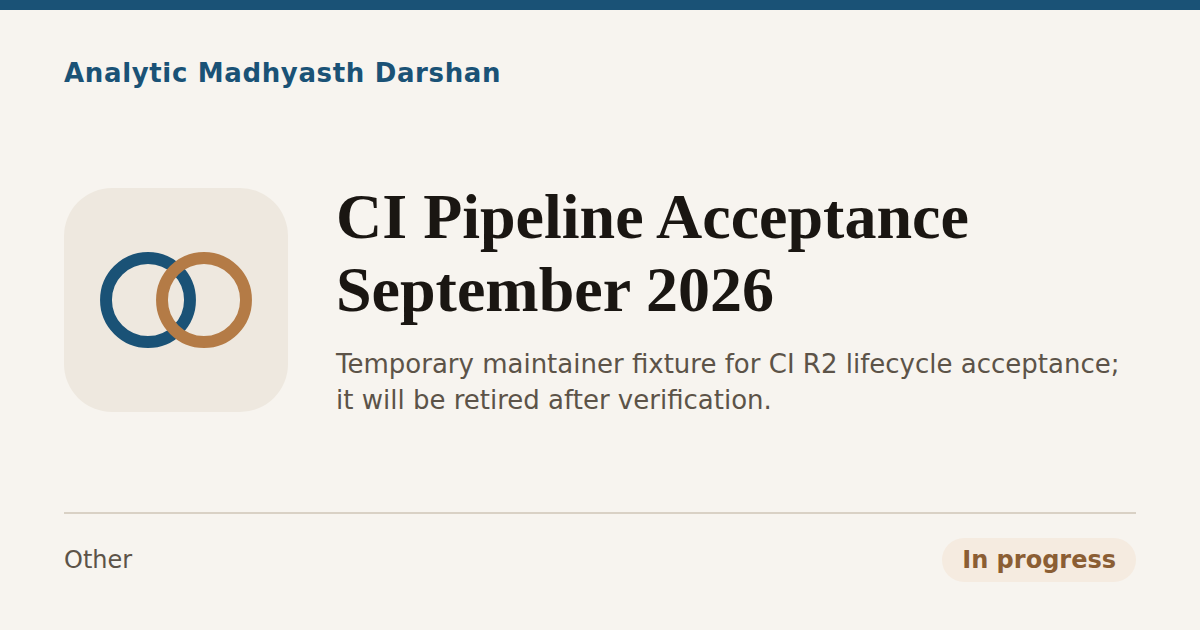
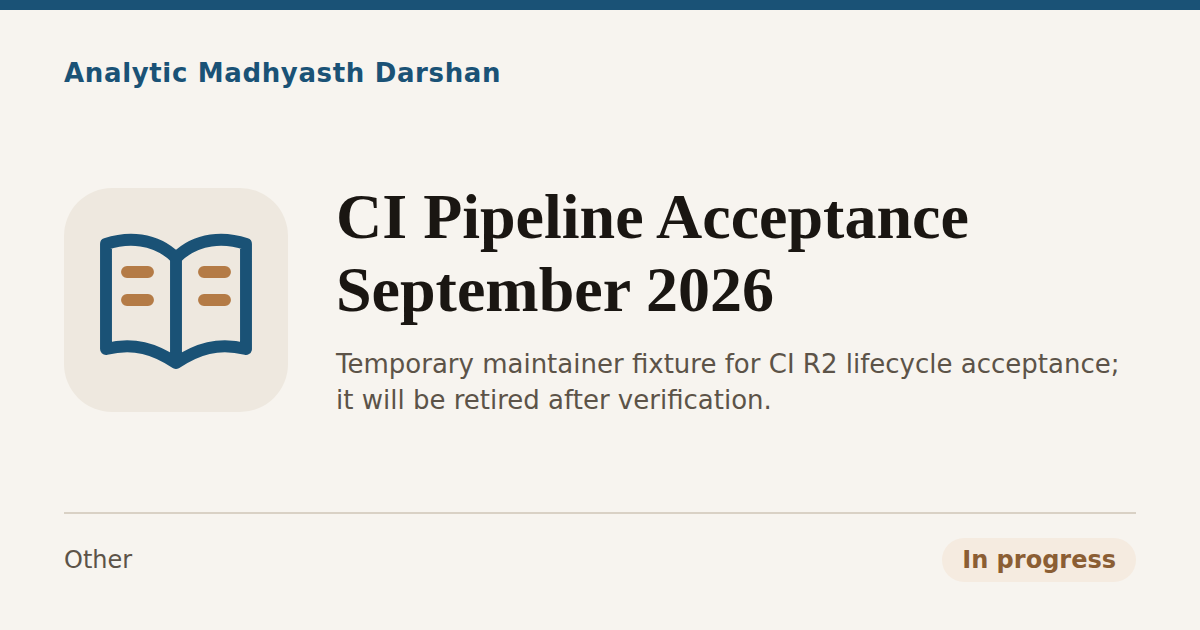
ci: prepare proposal workspace [skip ci]

Changed region(s): [[0.0617, 0.3619, 0.2158, 0.6032]]

diff --git a/Studies/index.html b/Studies/index.html
@@ -557,7 +557,7 @@
   const CATALOG_BUILD_ID = "1e9998101fd3";
   const PRESENTATIONS = {"Axiology-Value-Theory":[{"label":"Slides","shortLabel":"Slides","href":"Axiology-Value-Theory/Axiology-Value-Theory-Madhyasth-Darshan.pdf"}],"A-State-Dynamic-Model-Of-Coexistence":[{"label":"Slides","shortLabel":"Slides","href":"A-State-Dynamic-Model-Of-Coexistence/A-State-Dynamic-Model-Of-Coexistence-Madhyasth-Darshan.pdf"}],"How-Undivided-Society-Is-Established":[{"label":"Slides","shortLabel":"Slides","href":"How-Undivided-Society-Is-Established/How-Undivided-Society-Is-Established-presentation.pdf"}],"The-Epistemology-of-Coexistence":[{"label":"Study slides","shortLabel":"Main","href":"The-Epistemology-of-Coexistence/The-Epistemology-of-Coexistence-Madhyasth-Darshan.pdf"},{"label":"Comparison slides","shortLabel":"Compare","href":"The-Epistemology-of-Coexistence/Epistemology-in-Comparison-MD-Advaita-Philosophy-Science.pdf"}],"The-Ontology-of-Coexistence":[{"label":"Study slides","shortLabel":"Main","href":"The-Ontology-of-Coexistence/The-Ontology-of-Existence-Madhyasth-Darshan.pdf"},{"label":"Comparison slides","shortLabel":"Compare","href":"The-Ontology-of-Coexistence/Coexistence-in-Comparison-MD-vs-Advaita-Philosophy-Science.pdf"}],"Why-Humans-Are-Not-Just-Material":[{"label":"Slides","shortLabel":"Slides","href":"Why-Humans-Are-Not-Just-Material/Why-Humans-Are-Not-Just-Material-presentation.pdf"}]};
   const DISCUSS_ASSET_VERSION = "9";
-  const STUDY_VISUALS = {"The-Ontology-of-Coexistence":"coexistence","Nature-Of-Time":"time","Why-Humans-Are-Not-Just-Material":"jeevan","Philosophy-Of-Mind-And-Jeevan":"jeevan","Chitta-Brain-And-Memory":"resolution","The-Epistemology-of-Coexistence":"resolution","Methodology-And-Hermeneutics":"wisdom","Axiology-Value-Theory":"justice","Ethics-And-Morals-In-Human-Beings":"justice","Family-Relationships-And-Values":"family","Education-And-Sanskar":"learning","Aesthetics":"art","Human-Behavior-And-Society":"relationships","How-To-Form-Self-Sustaining-Organizations":"family","Governance-Justice-And-Undivided-Society":"justice","Prosperity-Economics-And-Right-Use":"prosperity","Nature-Ecology-And-Right-Use":"ecology","Spiritual-Practice-And-Realization":"jeevan","Science-Technology-And-Human-Purpose":"science","How-Undivided-Society-Is-Established":"akhand-samaj","Death-Continuity-And-Rebirth":"continuity","Language-Meaning-And-Definition":"language","Work-Action-And-Karma":"work","Free-Will-Choice-And-Agency":"choice","Health-Body-And-Restraint":"health","God-Divinity-And-The-Sacred":"coexistence","A-State-Dynamic-Model-Of-Coexistence":"model"};
+  const STUDY_VISUALS = {"The-Ontology-of-Coexistence":"coexistence","Nature-Of-Time":"time","Why-Humans-Are-Not-Just-Material":"jeevan","Philosophy-Of-Mind-And-Jeevan":"jeevan","Chitta-Brain-And-Memory":"resolution","The-Epistemology-of-Coexistence":"resolution","Methodology-And-Hermeneutics":"wisdom","Axiology-Value-Theory":"justice","Ethics-And-Morals-In-Human-Beings":"justice","Family-Relationships-And-Values":"family","Education-And-Sanskar":"learning","Aesthetics":"art","Human-Behavior-And-Society":"relationships","How-To-Form-Self-Sustaining-Organizations":"family","Governance-Justice-And-Undivided-Society":"justice","Prosperity-Economics-And-Right-Use":"prosperity","Nature-Ecology-And-Right-Use":"ecology","Spiritual-Practice-And-Realization":"jeevan","Science-Technology-And-Human-Purpose":"science","How-Undivided-Society-Is-Established":"akhand-samaj","Death-Continuity-And-Rebirth":"continuity","Language-Meaning-And-Definition":"language","Work-Action-And-Karma":"work","Free-Will-Choice-And-Agency":"choice","Health-Body-And-Restraint":"health","God-Divinity-And-The-Sacred":"coexistence","A-State-Dynamic-Model-Of-Coexistence":"model","CI-Pipeline-Acceptance-September-2026":"learning"};
   const THEME_ICON_HTML = {"akhand-samaj":"<svg xmlns=\"http://www.w3.org/2000/svg\" viewBox=\"0 0 240 240\" class=\"amd-mark\" aria-hidden=\"true\" focusable=\"false\"><path class=\"goal\" d=\"M120 36H163Q204 36 204 77V120\" transform=\"rotate(0 120 120)\" fill=\"none\" stroke=\"var(--amd-icon,#1A5276)\" stroke-width=\"20\"/><path class=\"goal\" d=\"M120 36H163Q204 36 204 77V120\" transform=\"rotate(90 120 120)\" fill=\"none\" stroke=\"var(--amd-accent,#B47B46)\" stroke-width=\"20\"/><path class=\"goal\" d=\"M120 36H163Q204 36 204 77V120\" transform=\"rotate(180 120 120)\" fill=\"none\" stroke=\"var(--amd-icon,#1A5276)\" stroke-width=\"20\"/><path class=\"goal\" d=\"M120 36H163Q204 36 204 77V120\" transform=\"rotate(270 120 120)\" fill=\"none\" stroke=\"var(--amd-accent,#B47B46)\" stroke-width=\"20\"/><circle cx=\"120\" cy=\"120\" r=\"22\" fill=\"var(--amd-accent,#B47B46)\" stroke=\"none\"/><\/svg>","art":"<svg xmlns=\"http://www.w3.org/2000/svg\" viewBox=\"0 0 24 24\" class=\"amd-topic-icon\" aria-hidden=\"true\" focusable=\"false\"><g fill=\"none\" stroke=\"var(--amd-icon,#1A5276)\" stroke-width=\"1.7\" stroke-linecap=\"round\" stroke-linejoin=\"round\"><path d=\"M14 3 3 14l-1 8 8-1L21 10ZM14 3l7 7M3 14l7 7\"/><g stroke=\"var(--amd-accent,#B47B46)\"><path d=\"m5 18 2 2\"/><\/g><\/g><\/svg>","audio":"<svg xmlns=\"http://www.w3.org/2000/svg\" viewBox=\"0 0 24 24\" class=\"amd-topic-icon\" aria-hidden=\"true\" focusable=\"false\"><g fill=\"none\" stroke=\"var(--amd-icon,#1A5276)\" stroke-width=\"1.7\" stroke-linecap=\"round\" stroke-linejoin=\"round\"><path d=\"M3 9h4l5-5v16l-5-5H3Z M16 8c3 2 3 6 0 8M19 5c5 4 5 10 0 14\"/><\/g><\/svg>","choice":"<svg xmlns=\"http://www.w3.org/2000/svg\" viewBox=\"0 0 24 24\" class=\"amd-topic-icon\" aria-hidden=\"true\" focusable=\"false\"><g fill=\"none\" stroke=\"var(--amd-icon,#1A5276)\" stroke-width=\"1.7\" stroke-linecap=\"round\" stroke-linejoin=\"round\"><path d=\"M12 22V12M12 12 5 5M12 12l7-7M2 5h6M5 2v6M16 5h6M19 2v6\"/><\/g><\/svg>","close":"<svg xmlns=\"http://www.w3.org/2000/svg\" viewBox=\"0 0 24 24\" class=\"amd-topic-icon\" aria-hidden=\"true\" focusable=\"false\"><g fill=\"none\" stroke=\"var(--amd-icon,#1A5276)\" stroke-width=\"1.7\" stroke-linecap=\"round\" stroke-linejoin=\"round\"><path d=\"m5 5 14 14M19 5 5 19\"/><\/g><\/svg>","coexistence":"<svg xmlns=\"http://www.w3.org/2000/svg\" viewBox=\"0 0 24 24\" class=\"amd-topic-icon\" aria-hidden=\"true\" focusable=\"false\"><g fill=\"none\" stroke=\"var(--amd-icon,#1A5276)\" stroke-width=\"1.7\" stroke-linecap=\"round\" stroke-linejoin=\"round\"><circle cx=\"8\" cy=\"12\" r=\"6\" /><g stroke=\"var(--amd-accent,#B47B46)\"><circle cx=\"16\" cy=\"12\" r=\"6\" /><\/g><\/g><\/svg>","continuity":"<svg xmlns=\"http://www.w3.org/2000/svg\" viewBox=\"0 0 24 24\" class=\"amd-topic-icon\" aria-hidden=\"true\" focusable=\"false\"><g fill=\"none\" stroke=\"var(--amd-icon,#1A5276)\" stroke-width=\"1.7\" stroke-linecap=\"round\" stroke-linejoin=\"round\"><path d=\"M4 8a9 9 0 0 1 15-2l2 2M21 3v5h-5M20 16a9 9 0 0 1-15 2l-2-2M3 21v-5h5\"/><\/g><\/svg>","discussion":"<svg xmlns=\"http://www.w3.org/2000/svg\" viewBox=\"0 0 24 24\" class=\"amd-topic-icon\" aria-hidden=\"true\" focusable=\"false\"><g fill=\"none\" stroke=\"var(--amd-icon,#1A5276)\" stroke-width=\"1.7\" stroke-linecap=\"round\" stroke-linejoin=\"round\"><path d=\"M2 3h16v12H7l-5 4ZM18 7h4v15l-5-4h-6v-3\"/><\/g><\/svg>","download":"<svg xmlns=\"http://www.w3.org/2000/svg\" viewBox=\"0 0 24 24\" class=\"amd-topic-icon\" aria-hidden=\"true\" focusable=\"false\"><g fill=\"none\" stroke=\"var(--amd-icon,#1A5276)\" stroke-width=\"1.7\" stroke-linecap=\"round\" stroke-linejoin=\"round\"><path d=\"M12 2v13m-5-5 5 5 5-5M3 17v5h18v-5\"/><\/g><\/svg>","ecology":"<svg xmlns=\"http://www.w3.org/2000/svg\" viewBox=\"0 0 24 24\" class=\"amd-topic-icon\" aria-hidden=\"true\" focusable=\"false\"><g fill=\"none\" stroke=\"var(--amd-icon,#1A5276)\" stroke-width=\"1.7\" stroke-linecap=\"round\" stroke-linejoin=\"round\"><path d=\"M12 22V10M12 14C4 14 3 8 3 5c6 0 9 4 9 9Z\"/><g stroke=\"var(--amd-accent,#B47B46)\"><path d=\"M12 10c0-6 4-8 9-8 0 5-3 8-9 8Z\"/><\/g><\/g><\/svg>","external":"<svg xmlns=\"http://www.w3.org/2000/svg\" viewBox=\"0 0 24 24\" class=\"amd-topic-icon\" aria-hidden=\"true\" focusable=\"false\"><g fill=\"none\" stroke=\"var(--amd-icon,#1A5276)\" stroke-width=\"1.7\" stroke-linecap=\"round\" stroke-linejoin=\"round\"><path d=\"M14 3h7v7M21 3l-11 11M10 3H3v18h18v-7\"/><\/g><\/svg>","family":"<svg xmlns=\"http://www.w3.org/2000/svg\" viewBox=\"0 0 24 24\" class=\"amd-topic-icon\" aria-hidden=\"true\" focusable=\"false\"><g fill=\"none\" stroke=\"var(--amd-icon,#1A5276)\" stroke-width=\"1.7\" stroke-linecap=\"round\" stroke-linejoin=\"round\"><circle cx=\"12\" cy=\"5\" r=\"2.5\" /><circle cx=\"4\" cy=\"10\" r=\"2\" /><circle cx=\"20\" cy=\"10\" r=\"2\" /><path d=\"M7 15v-2c0-3 2-4 5-4s5 1 5 4v2M1 21v-4c0-2 1-3 3-3s3 1 3 3v4M17 21v-4c0-2 1-3 3-3s3 1 3 3v4\"/><g stroke=\"var(--amd-accent,#B47B46)\"><path d=\"M9 21v-4h6v4\"/><\/g><\/g><\/svg>","fearlessness":"<svg xmlns=\"http://www.w3.org/2000/svg\" viewBox=\"0 0 24 24\" class=\"amd-topic-icon\" aria-hidden=\"true\" focusable=\"false\"><g fill=\"none\" stroke=\"var(--amd-icon,#1A5276)\" stroke-width=\"1.7\" stroke-linecap=\"round\" stroke-linejoin=\"round\"><circle cx=\"6\" cy=\"6\" r=\"2.5\" /><circle cx=\"18\" cy=\"6\" r=\"2.5\" /><path d=\"M2 20v-5c0-3 2-4 4-4s4 1 4 4v5M14 20v-5c0-3 2-4 4-4s4 1 4 4v5\"/><g stroke=\"var(--amd-accent,#B47B46)\"><path d=\"M8 14c3 3 5 3 8 0\"/><\/g><\/g><\/svg>","health":"<svg xmlns=\"http://www.w3.org/2000/svg\" viewBox=\"0 0 24 24\" class=\"amd-topic-icon\" aria-hidden=\"true\" focusable=\"false\"><g fill=\"none\" stroke=\"var(--amd-icon,#1A5276)\" stroke-width=\"1.7\" stroke-linecap=\"round\" stroke-linejoin=\"round\"><path d=\"M12 21 3 12C-2 5 7-1 12 6c5-7 14-1 9 6Z\"/><g stroke=\"var(--amd-accent,#B47B46)\"><path d=\"M3 12h5l2-4 4 8 2-4h5\"/><\/g><\/g><\/svg>","jeevan":"<svg xmlns=\"http://www.w3.org/2000/svg\" viewBox=\"0 0 240 240\" class=\"amd-mark\" aria-hidden=\"true\" focusable=\"false\"><circle class=\"faculty\" cx=\"120\" cy=\"120\" r=\"34\" fill=\"none\" stroke=\"var(--amd-icon,#1A5276)\" stroke-width=\"8\"/><circle class=\"faculty\" cx=\"120\" cy=\"120\" r=\"54\" fill=\"none\" stroke=\"var(--amd-icon,#1A5276)\" stroke-width=\"8\"/><circle class=\"faculty\" cx=\"120\" cy=\"120\" r=\"74\" fill=\"none\" stroke=\"var(--amd-icon,#1A5276)\" stroke-width=\"8\"/><circle class=\"faculty\" cx=\"120\" cy=\"120\" r=\"94\" fill=\"none\" stroke=\"var(--amd-icon,#1A5276)\" stroke-width=\"8\"/><circle cx=\"120\" cy=\"120\" r=\"17\" fill=\"var(--amd-accent,#B47B46)\" stroke=\"none\"/><\/svg>","justice":"<svg xmlns=\"http://www.w3.org/2000/svg\" viewBox=\"0 0 24 24\" class=\"amd-topic-icon\" aria-hidden=\"true\" focusable=\"false\"><g fill=\"none\" stroke=\"var(--amd-icon,#1A5276)\" stroke-width=\"1.7\" stroke-linecap=\"round\" stroke-linejoin=\"round\"><path d=\"M12 3v18M7 21h10M3 7h18M6 7l-4 8h8ZM18 7l-4 8h8Z\"/><circle cx=\"12\" cy=\"6\" r=\"2\" fill=\"var(--amd-accent,#B47B46)\" stroke=\"none\"/><\/g><\/svg>","language":"<svg xmlns=\"http://www.w3.org/2000/svg\" viewBox=\"0 0 24 24\" class=\"amd-topic-icon\" aria-hidden=\"true\" focusable=\"false\"><g fill=\"none\" stroke=\"var(--amd-icon,#1A5276)\" stroke-width=\"1.7\" stroke-linecap=\"round\" stroke-linejoin=\"round\"><path d=\"M3 3h18v14H9l-6 4ZM7 7h10M7 11h7\"/><\/g><\/svg>","learning":"<svg xmlns=\"http://www.w3.org/2000/svg\" viewBox=\"0 0 24 24\" class=\"amd-topic-icon\" aria-hidden=\"true\" focusable=\"false\"><g fill=\"none\" stroke=\"var(--amd-icon,#1A5276)\" stroke-width=\"1.7\" stroke-linecap=\"round\" stroke-linejoin=\"round\"><path d=\"M12 6C9 3 5 3 2 4v15c4-1 7 0 10 2 3-2 6-3 10-2V4c-3-1-7-1-10 2ZM12 6v15\"/><g stroke=\"var(--amd-accent,#B47B46)\"><path d=\"M5 8h3M16 8h3M5 12h3M16 12h3\"/><\/g><\/g><\/svg>","menu":"<svg xmlns=\"http://www.w3.org/2000/svg\" viewBox=\"0 0 24 24\" class=\"amd-topic-icon\" aria-hidden=\"true\" focusable=\"false\"><g fill=\"none\" stroke=\"var(--amd-icon,#1A5276)\" stroke-width=\"1.7\" stroke-linecap=\"round\" stroke-linejoin=\"round\"><path d=\"M3 5h18M3 12h18M3 19h18\"/><\/g><\/svg>","model":"<svg xmlns=\"http://www.w3.org/2000/svg\" viewBox=\"0 0 24 24\" class=\"amd-topic-icon\" aria-hidden=\"true\" focusable=\"false\"><g fill=\"none\" stroke=\"var(--amd-icon,#1A5276)\" stroke-width=\"1.7\" stroke-linecap=\"round\" stroke-linejoin=\"round\"><circle cx=\"5\" cy=\"5\" r=\"2\" /><circle cx=\"19\" cy=\"5\" r=\"2\" /><circle cx=\"5\" cy=\"19\" r=\"2\" /><circle cx=\"19\" cy=\"19\" r=\"2\" /><path d=\"M7 5h10M5 7v10M19 7v10M7 19h10\"/><g stroke=\"var(--amd-accent,#B47B46)\"><path d=\"m7 7 10 10m0-10L7 17\"/><\/g><\/g><\/svg>","moon":"<svg xmlns=\"http://www.w3.org/2000/svg\" viewBox=\"0 0 24 24\" class=\"amd-topic-icon\" aria-hidden=\"true\" focusable=\"false\"><g fill=\"none\" stroke=\"var(--amd-icon,#1A5276)\" stroke-width=\"1.7\" stroke-linecap=\"round\" stroke-linejoin=\"round\"><path d=\"M20 15A9 9 0 0 1 9 3a9 9 0 1 0 11 12Z\"/><\/g><\/svg>","notes":"<svg xmlns=\"http://www.w3.org/2000/svg\" viewBox=\"0 0 24 24\" class=\"amd-topic-icon\" aria-hidden=\"true\" focusable=\"false\"><g fill=\"none\" stroke=\"var(--amd-icon,#1A5276)\" stroke-width=\"1.7\" stroke-linecap=\"round\" stroke-linejoin=\"round\"><path d=\"M4 2h12l4 4v16H4ZM15 2v5h5M8 11h8M8 15h8M8 19h5\"/><\/g><\/svg>","pause":"<svg xmlns=\"http://www.w3.org/2000/svg\" viewBox=\"0 0 24 24\" class=\"amd-topic-icon\" aria-hidden=\"true\" focusable=\"false\"><g fill=\"none\" stroke=\"var(--amd-icon,#1A5276)\" stroke-width=\"1.7\" stroke-linecap=\"round\" stroke-linejoin=\"round\"><path d=\"M8 4v16M16 4v16\"/><\/g><\/svg>","prosperity":"<svg xmlns=\"http://www.w3.org/2000/svg\" viewBox=\"0 0 24 24\" class=\"amd-topic-icon\" aria-hidden=\"true\" focusable=\"false\"><g fill=\"none\" stroke=\"var(--amd-icon,#1A5276)\" stroke-width=\"1.7\" stroke-linecap=\"round\" stroke-linejoin=\"round\"><path d=\"M3 14h18c-1 5-4 7-9 7s-8-2-9-7ZM12 14V7\"/><g stroke=\"var(--amd-accent,#B47B46)\"><path d=\"M12 10C6 10 6 5 6 4c5 0 6 3 6 6ZM12 8c0-4 3-6 6-6 0 4-2 6-6 6Z\"/><\/g><\/g><\/svg>","relationships":"<svg xmlns=\"http://www.w3.org/2000/svg\" viewBox=\"0 0 24 24\" class=\"amd-topic-icon\" aria-hidden=\"true\" focusable=\"false\"><g fill=\"none\" stroke=\"var(--amd-icon,#1A5276)\" stroke-width=\"1.7\" stroke-linecap=\"round\" stroke-linejoin=\"round\"><path d=\"M10 15 8 17a4 4 0 0 1-6-6l4-4a4 4 0 0 1 6 0M14 9l2-2a4 4 0 0 1 6 6l-4 4a4 4 0 0 1-6 0\"/><g stroke=\"var(--amd-accent,#B47B46)\"><path d=\"m8 12 8 0\"/><\/g><\/g><\/svg>","resolution":"<svg xmlns=\"http://www.w3.org/2000/svg\" viewBox=\"0 0 24 24\" class=\"amd-topic-icon\" aria-hidden=\"true\" focusable=\"false\"><g fill=\"none\" stroke=\"var(--amd-icon,#1A5276)\" stroke-width=\"1.7\" stroke-linecap=\"round\" stroke-linejoin=\"round\"><path d=\"M3 12s3-6 9-6 9 6 9 6-3 6-9 6-9-6-9-6Z\"/><circle cx=\"12\" cy=\"12\" r=\"2.5\" fill=\"var(--amd-accent,#B47B46)\" stroke=\"none\"/><\/g><\/svg>","saved":"<svg xmlns=\"http://www.w3.org/2000/svg\" viewBox=\"0 0 24 24\" class=\"amd-topic-icon\" aria-hidden=\"true\" focusable=\"false\"><g fill=\"none\" stroke=\"var(--amd-icon,#1A5276)\" stroke-width=\"1.7\" stroke-linecap=\"round\" stroke-linejoin=\"round\"><path d=\"m4 12 5 5L20 6\"/><\/g><\/svg>","science":"<svg xmlns=\"http://www.w3.org/2000/svg\" viewBox=\"0 0 24 24\" class=\"amd-topic-icon\" aria-hidden=\"true\" focusable=\"false\"><g fill=\"none\" stroke=\"var(--amd-icon,#1A5276)\" stroke-width=\"1.7\" stroke-linecap=\"round\" stroke-linejoin=\"round\"><path d=\"M9 3h6M10 3v7L4 19c-1 1 0 2 1 2h14c1 0 2-1 1-2l-6-9V3\"/><g stroke=\"var(--amd-accent,#B47B46)\"><path d=\"M7 15h10\"/><\/g><\/g><\/svg>","search":"<svg xmlns=\"http://www.w3.org/2000/svg\" viewBox=\"0 0 24 24\" class=\"amd-topic-icon\" aria-hidden=\"true\" focusable=\"false\"><g fill=\"none\" stroke=\"var(--amd-icon,#1A5276)\" stroke-width=\"1.7\" stroke-linecap=\"round\" stroke-linejoin=\"round\"><circle cx=\"10\" cy=\"10\" r=\"7\" /><path d=\"m15 15 7 7\"/><\/g><\/svg>","slides":"<svg xmlns=\"http://www.w3.org/2000/svg\" viewBox=\"0 0 24 24\" class=\"amd-topic-icon\" aria-hidden=\"true\" focusable=\"false\"><g fill=\"none\" stroke=\"var(--amd-icon,#1A5276)\" stroke-width=\"1.7\" stroke-linecap=\"round\" stroke-linejoin=\"round\"><path d=\"M2 3h20v14H2ZM12 17v5M8 22h8\"/><g stroke=\"var(--amd-accent,#B47B46)\"><path d=\"m10 7 5 3-5 3Z\"/><\/g><\/g><\/svg>","sun":"<svg xmlns=\"http://www.w3.org/2000/svg\" viewBox=\"0 0 24 24\" class=\"amd-topic-icon\" aria-hidden=\"true\" focusable=\"false\"><g fill=\"none\" stroke=\"var(--amd-icon,#1A5276)\" stroke-width=\"1.7\" stroke-linecap=\"round\" stroke-linejoin=\"round\"><circle cx=\"12\" cy=\"12\" r=\"4\" /><path d=\"M12 1v2M12 21v2M1 12h2M21 12h2M4 4l2 2M18 18l2 2M20 4l-2 2M6 18l-2 2\"/><\/g><\/svg>","time":"<svg xmlns=\"http://www.w3.org/2000/svg\" viewBox=\"0 0 24 24\" class=\"amd-topic-icon\" aria-hidden=\"true\" focusable=\"false\"><g fill=\"none\" stroke=\"var(--amd-icon,#1A5276)\" stroke-width=\"1.7\" stroke-linecap=\"round\" stroke-linejoin=\"round\"><circle cx=\"12\" cy=\"12\" r=\"9\" /><g stroke=\"var(--amd-accent,#B47B46)\"><path d=\"M12 6v6l4 3\"/><\/g><\/g><\/svg>","wisdom":"<svg xmlns=\"http://www.w3.org/2000/svg\" viewBox=\"0 0 24 24\" class=\"amd-topic-icon\" aria-hidden=\"true\" focusable=\"false\"><g fill=\"none\" stroke=\"var(--amd-icon,#1A5276)\" stroke-width=\"1.7\" stroke-linecap=\"round\" stroke-linejoin=\"round\"><circle cx=\"12\" cy=\"12\" r=\"9\" /><g stroke=\"var(--amd-accent,#B47B46)\"><path d=\"m16 8-2.5 5.5L8 16l2.5-5.5Z\"/><\/g><\/g><\/svg>","work":"<svg xmlns=\"http://www.w3.org/2000/svg\" viewBox=\"0 0 24 24\" class=\"amd-topic-icon\" aria-hidden=\"true\" focusable=\"false\"><g fill=\"none\" stroke=\"var(--amd-icon,#1A5276)\" stroke-width=\"1.7\" stroke-linecap=\"round\" stroke-linejoin=\"round\"><path d=\"M14 3a6 6 0 0 0-7 8l-5 5a3 3 0 0 0 4 4l6-6a6 6 0 0 0 8-7l-4 4-4-4Z\"/><\/g><\/svg>"};
   const PDF_DOWNLOAD_ICON = "<svg class=\"amd-icon\" aria-hidden=\"true\" focusable=\"false\"><use href=\"/Assets/Theme/icons/sprite.svg#download\"><\/use><\/svg>";
   const PRESENTATION_ICON = "<svg class=\"amd-icon\" aria-hidden=\"true\" focusable=\"false\"><use href=\"/Assets/Theme/icons/sprite.svg#slides\"><\/use><\/svg>";
